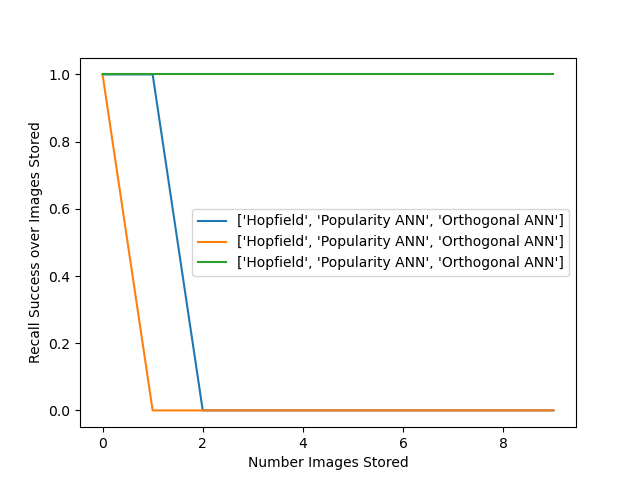
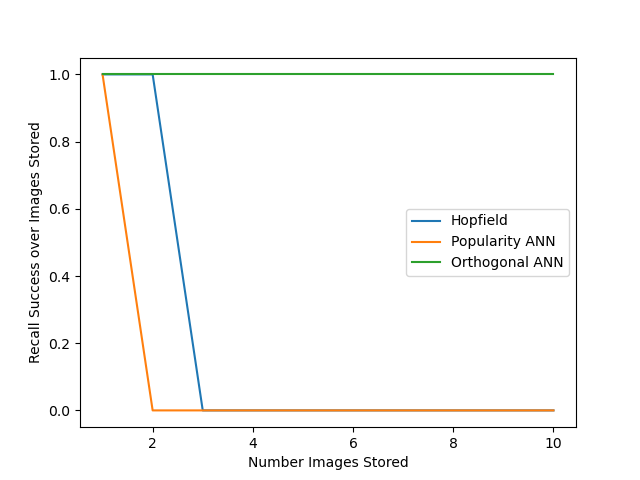
complete alexnet graphs

diff --git a/run_attractor_net_recall_tests.py b/run_attractor_net_recall_tests.py
@@ -6,39 +6,47 @@ from torchvision.datasets.mnist import MNIST
 import matplotlib.pyplot as plt
 import torchvision.transforms as transforms
 from recall_task import evaluate_model_recall
-from pretrained_cnn_ann import DummyCNN_ANN
+from pretrained_cnn_ann import DummyCNN_ANN, CNN_ANN, Intermediate_Capture
 from basic_hopfield import hopnet
 from popularity_ann import PopularityANN
 from orthogonal_hebbs_ann import OrthogonalHebbsANN
+from alexnet import AlexNet
+import torch
+import torch.nn as nn
 import numpy as np
 
 # given a list of desired labels
 # will pick one of each label from full_dataset and create a subset for storing data
 # returns tuple of (desired vector set, desired vector label set)
-def create_probe_set(desired_labels, full_dataset):
+def create_probe_set(desired_labels, full_dataset, reshape=True, make_numpy=True):
     full_stored_set = []
     full_stored_labels = []
     for des in desired_labels:
         desired_vectors = full_dataset[des]
         rand_index = np.random.randint(0, len(desired_vectors))
-        full_stored_set.append(desired_vectors[rand_index].reshape(-1, 1).numpy())
+        to_add = desired_vectors[rand_index]
+        if reshape:
+            to_add = to_add.reshape((-1,1))
+        if make_numpy:
+            to_add = to_add.numpy()
+        full_stored_set.append(to_add)
         full_stored_labels.append(des)
     return (full_stored_set, full_stored_labels)
 
 # performance series is a list of tuples, i-th element of tuple is i-th series
 def draw_performance_graph(performance_series, series_labels):
-    x_axis = list(range(len(performance_series)))
+    x_axis = list(range(1, len(performance_series)+1))
     full_series_set = list(map(list, zip(*performance_series)))
     for s in range(len(full_series_set)):
         series = full_series_set[s]
-        lab = series_labels
+        lab = series_labels[s]
         plt.plot(x_axis, series, label=lab)
     plt.legend()
     plt.xlabel("Number Images Stored")
     plt.ylabel("Recall Success over Images Stored")
     plt.show()
 
-def run_recall_test_simulation():
+def run_ann_recall_test_simulation():
 
     data_raw = MNIST('./data/mnist',
                     download=True,
@@ -103,10 +111,87 @@ def run_recall_test_simulation():
         stored_size_vs_performance.append((hopfield_perf, popularity_perf, ortho_perf))
     return stored_size_vs_performance
 
+
+def run_alexnet_ann_recall_test_simulation():
+    transform = transforms.ToTensor()
+    data_raw = MNIST(
+    root='./data/mnist',
+    train=True,
+    download=True,
+    transform=transform)
+
+    # creating a toy dataset for simple probing
+    mnist_subset = {0:[], 1:[], 2:[], 3:[], 4:[], 5:[], 6:[], 7:[], 8:[], 9:[]}
+    per_class_sizes = {0:10, 1:10, 2:10, 3:10, 4:10, 5:10, 6:10, 7:10, 8:10, 9:10}
+    for i in range(len(data_raw)):
+        image, label = data_raw[i]
+        if len(mnist_subset[label]) < per_class_sizes[label]:
+            mnist_subset[label].append(torch.reshape(image, (1,1, 28,28)))
+        done = True
+        for k in mnist_subset:
+            if len(mnist_subset[k]) < per_class_sizes[k]:
+                done=False
+        if done:
+            break
+
+    # instantiate alexnet from mnist trained
+    alex_cnn = AlexNet()
+    alex_cnn.load_state_dict(torch.load("trained_models/alexnet.pt", map_location=torch.device("cpu")))
+    alex_cnn.eval()
+    alex_capture = Intermediate_Capture(alex_cnn.fc3) # for now capture final output
+
+    # converts mnist_subset into table that is usable for model input
+    full_pattern_set = []
+    full_label_set = []
+    for k in mnist_subset:
+        for v in mnist_subset[k]:
+            full_pattern_set.append(v)
+            full_label_set.append(k)
+
+    # given list of a desired labels, randomly choose an example of each label from the mnist dataset to store
+    stored_size_vs_performance = [] # list will store tuples of (hopfield perf, popularity perf, ortho perf)
+    for desired_label_size in range(10):
+        desired_labels = list(range(desired_label_size+1))
+        full_stored_set, full_stored_labels = create_probe_set(desired_labels, mnist_subset, reshape=False, make_numpy=False)
+        print("Num Stored: ", len(desired_labels))
+
+        num_nodes = 10 # TODO: should extract from Intermediate Capture size
+
+        # evaluate hopnet performance
+        ann_model = hopnet(num_nodes) 
+        model = CNN_ANN(alex_cnn, ann_model, alex_capture, capture_process_fn=lambda x: np.sign(np.exp(x)-np.exp(x).mean()))
+        num_succ, num_fail = evaluate_model_recall(model, full_stored_set, full_stored_labels, full_stored_set, full_stored_labels, verbose=True)
+        print("Hopfield:", num_succ, ":", num_fail)
+        hopfield_perf = int(num_succ)
+
+        # evaluate popularity ANN performance
+        # hyperparams: set c = N-1, with randomly generated connectivity matrix
+        ann_model = PopularityANN(N=num_nodes, c=num_nodes-1)
+        model = CNN_ANN(alex_cnn, ann_model, alex_capture, capture_process_fn=lambda x: np.sign(np.exp(x)-np.exp(x).mean()))
+        num_succ, num_fail = evaluate_model_recall(model, full_stored_set, full_stored_labels, full_stored_set, full_stored_labels, verbose=True)
+        print("PopularityANN:", num_succ, ":", num_fail)
+        popularity_perf = int(num_succ)
+
+        # evaluate orthogonal hebbs ANN performance
+        ann_model = OrthogonalHebbsANN(N=num_nodes)
+        model = CNN_ANN(alex_cnn, ann_model, alex_capture, capture_process_fn=lambda x: np.sign(np.exp(x)-np.exp(x).mean()))
+        num_succ, num_fail = evaluate_model_recall(model, full_stored_set, full_stored_labels, full_stored_set, full_stored_labels, verbose=True)
+        print("OrthogonalHebbsANN:", num_succ, ":", num_fail)
+        ortho_perf = int(num_succ)
+
+        stored_size_vs_performance.append((hopfield_perf, popularity_perf, ortho_perf))
+
+    # write performance to file
+    fh = open("data/graph_sources/alexnet_recall_task_trial1.txt", "w")
+    for perf in stored_size_vs_performance:
+        fh.write(str(perf[0]) + "," + str(perf[1]) + "," + str(perf[2]) + "\n")
+    fh.close()
+    return stored_size_vs_performance
+
 # data must be stored in CSV
 # each row represents tuple of (hopfield recall success, popularity recall success, orthogonal recall success)
 def parse_recall_task_perf(src_file):
-    fh = open(src_file)
+    fh = open(src_file, "r")
     stored_size_vs_performance = []
     num_stored = 1
     for line in fh:
@@ -121,3 +206,6 @@ def parse_recall_task_perf(src_file):
     return stored_size_vs_performance
 
 draw_performance_graph(parse_recall_task_perf("data/graph_sources/mnist_recall_task_anns.txt"), series_labels=["Hopfield", "Popularity ANN", "Orthogonal ANN"])
+
+#run_alexnet_ann_recall_test_simulation()
+#draw_performance_graph(parse_recall_task_perf("data/graph_sources/alexnet_recall_task_trial1.txt"), series_labels=["Hopfield", "Popularity ANN", "Orthogonal ANN"])

diff --git a/recall_task.py b/recall_task.py
@@ -16,6 +16,7 @@ def recall_probe(model:CNN_ANN, probe, probe_label, verbose=False):
     final_act, act_label = model.predict(probe)
     if verbose:
         print("Model predicted", act_label, "- Expected:", probe_label)
+        print("\t", final_act.tolist())
     if probe_label == act_label:
         return 1
     return 0
@@ -24,7 +25,7 @@ def recall_probe(model:CNN_ANN, probe, probe_label, verbose=False):
 # will then evaluate the recall of each probe in the probe set
 # returns tuple of (recall successes, recall failures)
 def evaluate_model_recall(model:CNN_ANN, input_data, input_labels, probe_set, probe_labels, verbose=False):
-    model.learn(input_data, input_labels)
+    model.learn(input_data, input_labels, verbose=verbose)
     num_succ = 0
     num_fail = 0
     for p in range(len(probe_set)):

diff --git a/alexnet.py b/alexnet.py
@@ -4,7 +4,6 @@ import torchvision.transforms as transforms
 import torch.nn as nn
 import torch.optim as optim
  
-import cv2
 # Define whether to use GPU
 device = torch.device("cuda" if torch.cuda.is_available() else "cpu")
  
